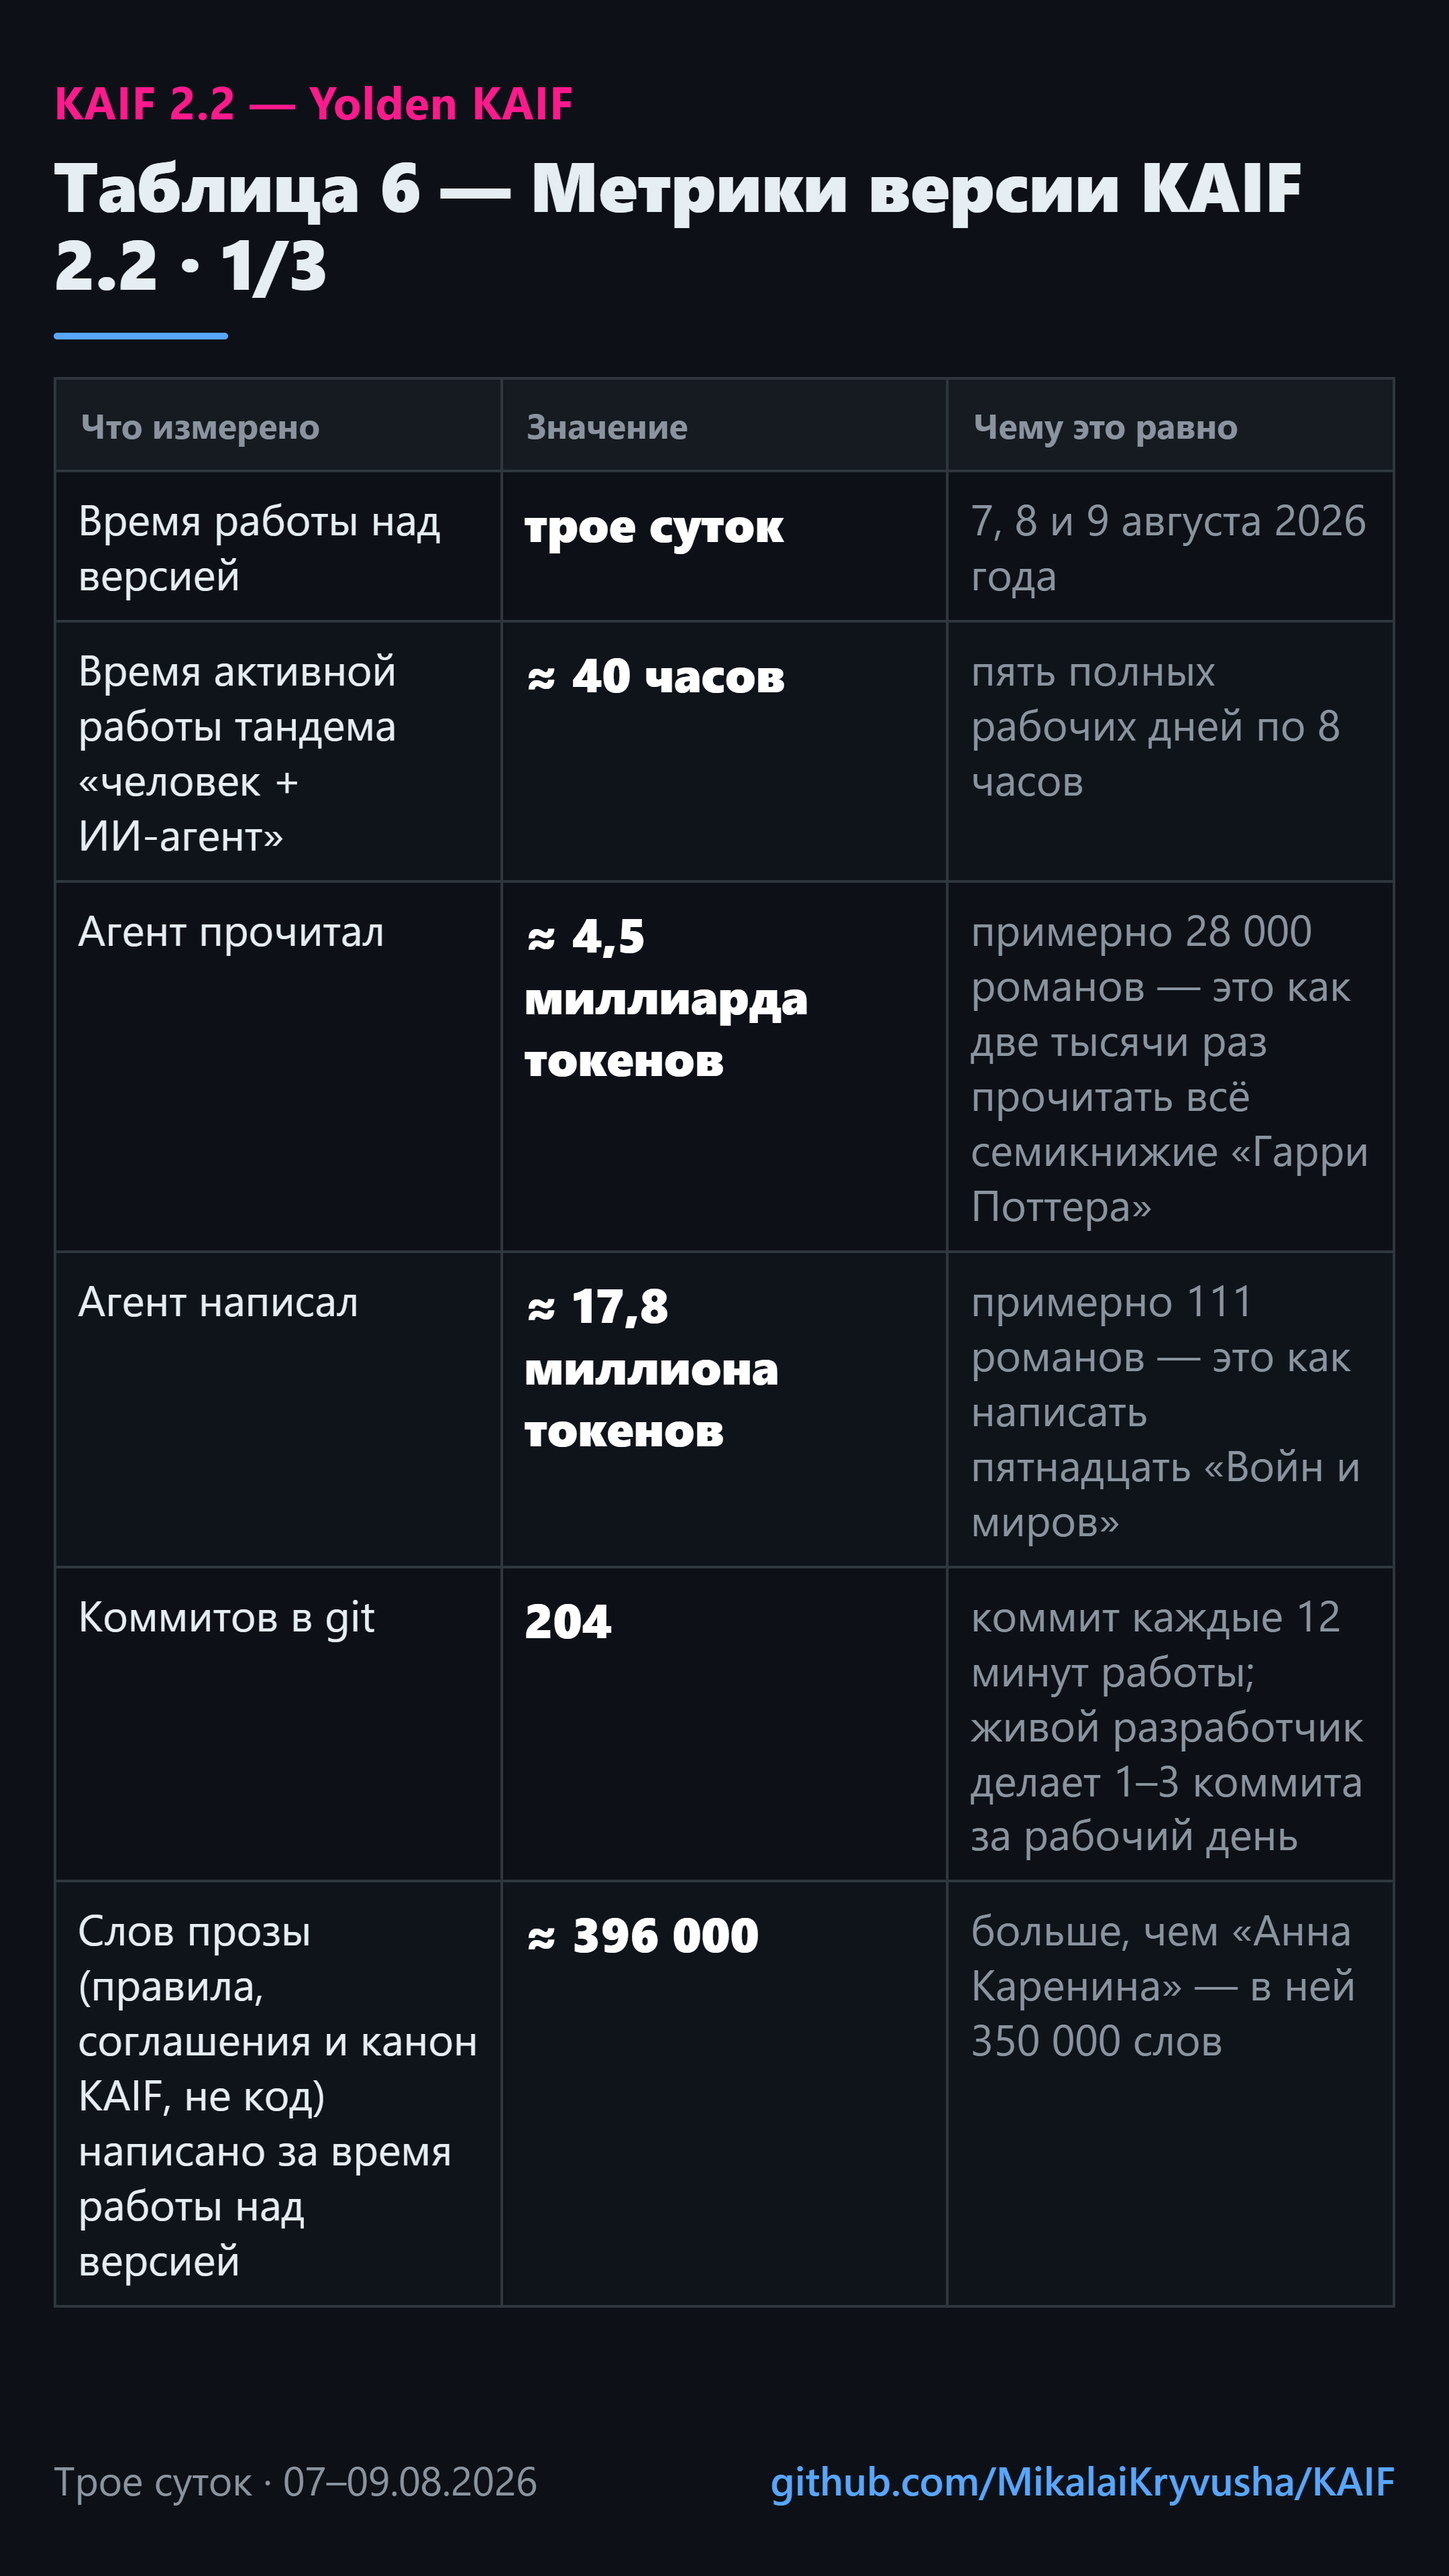
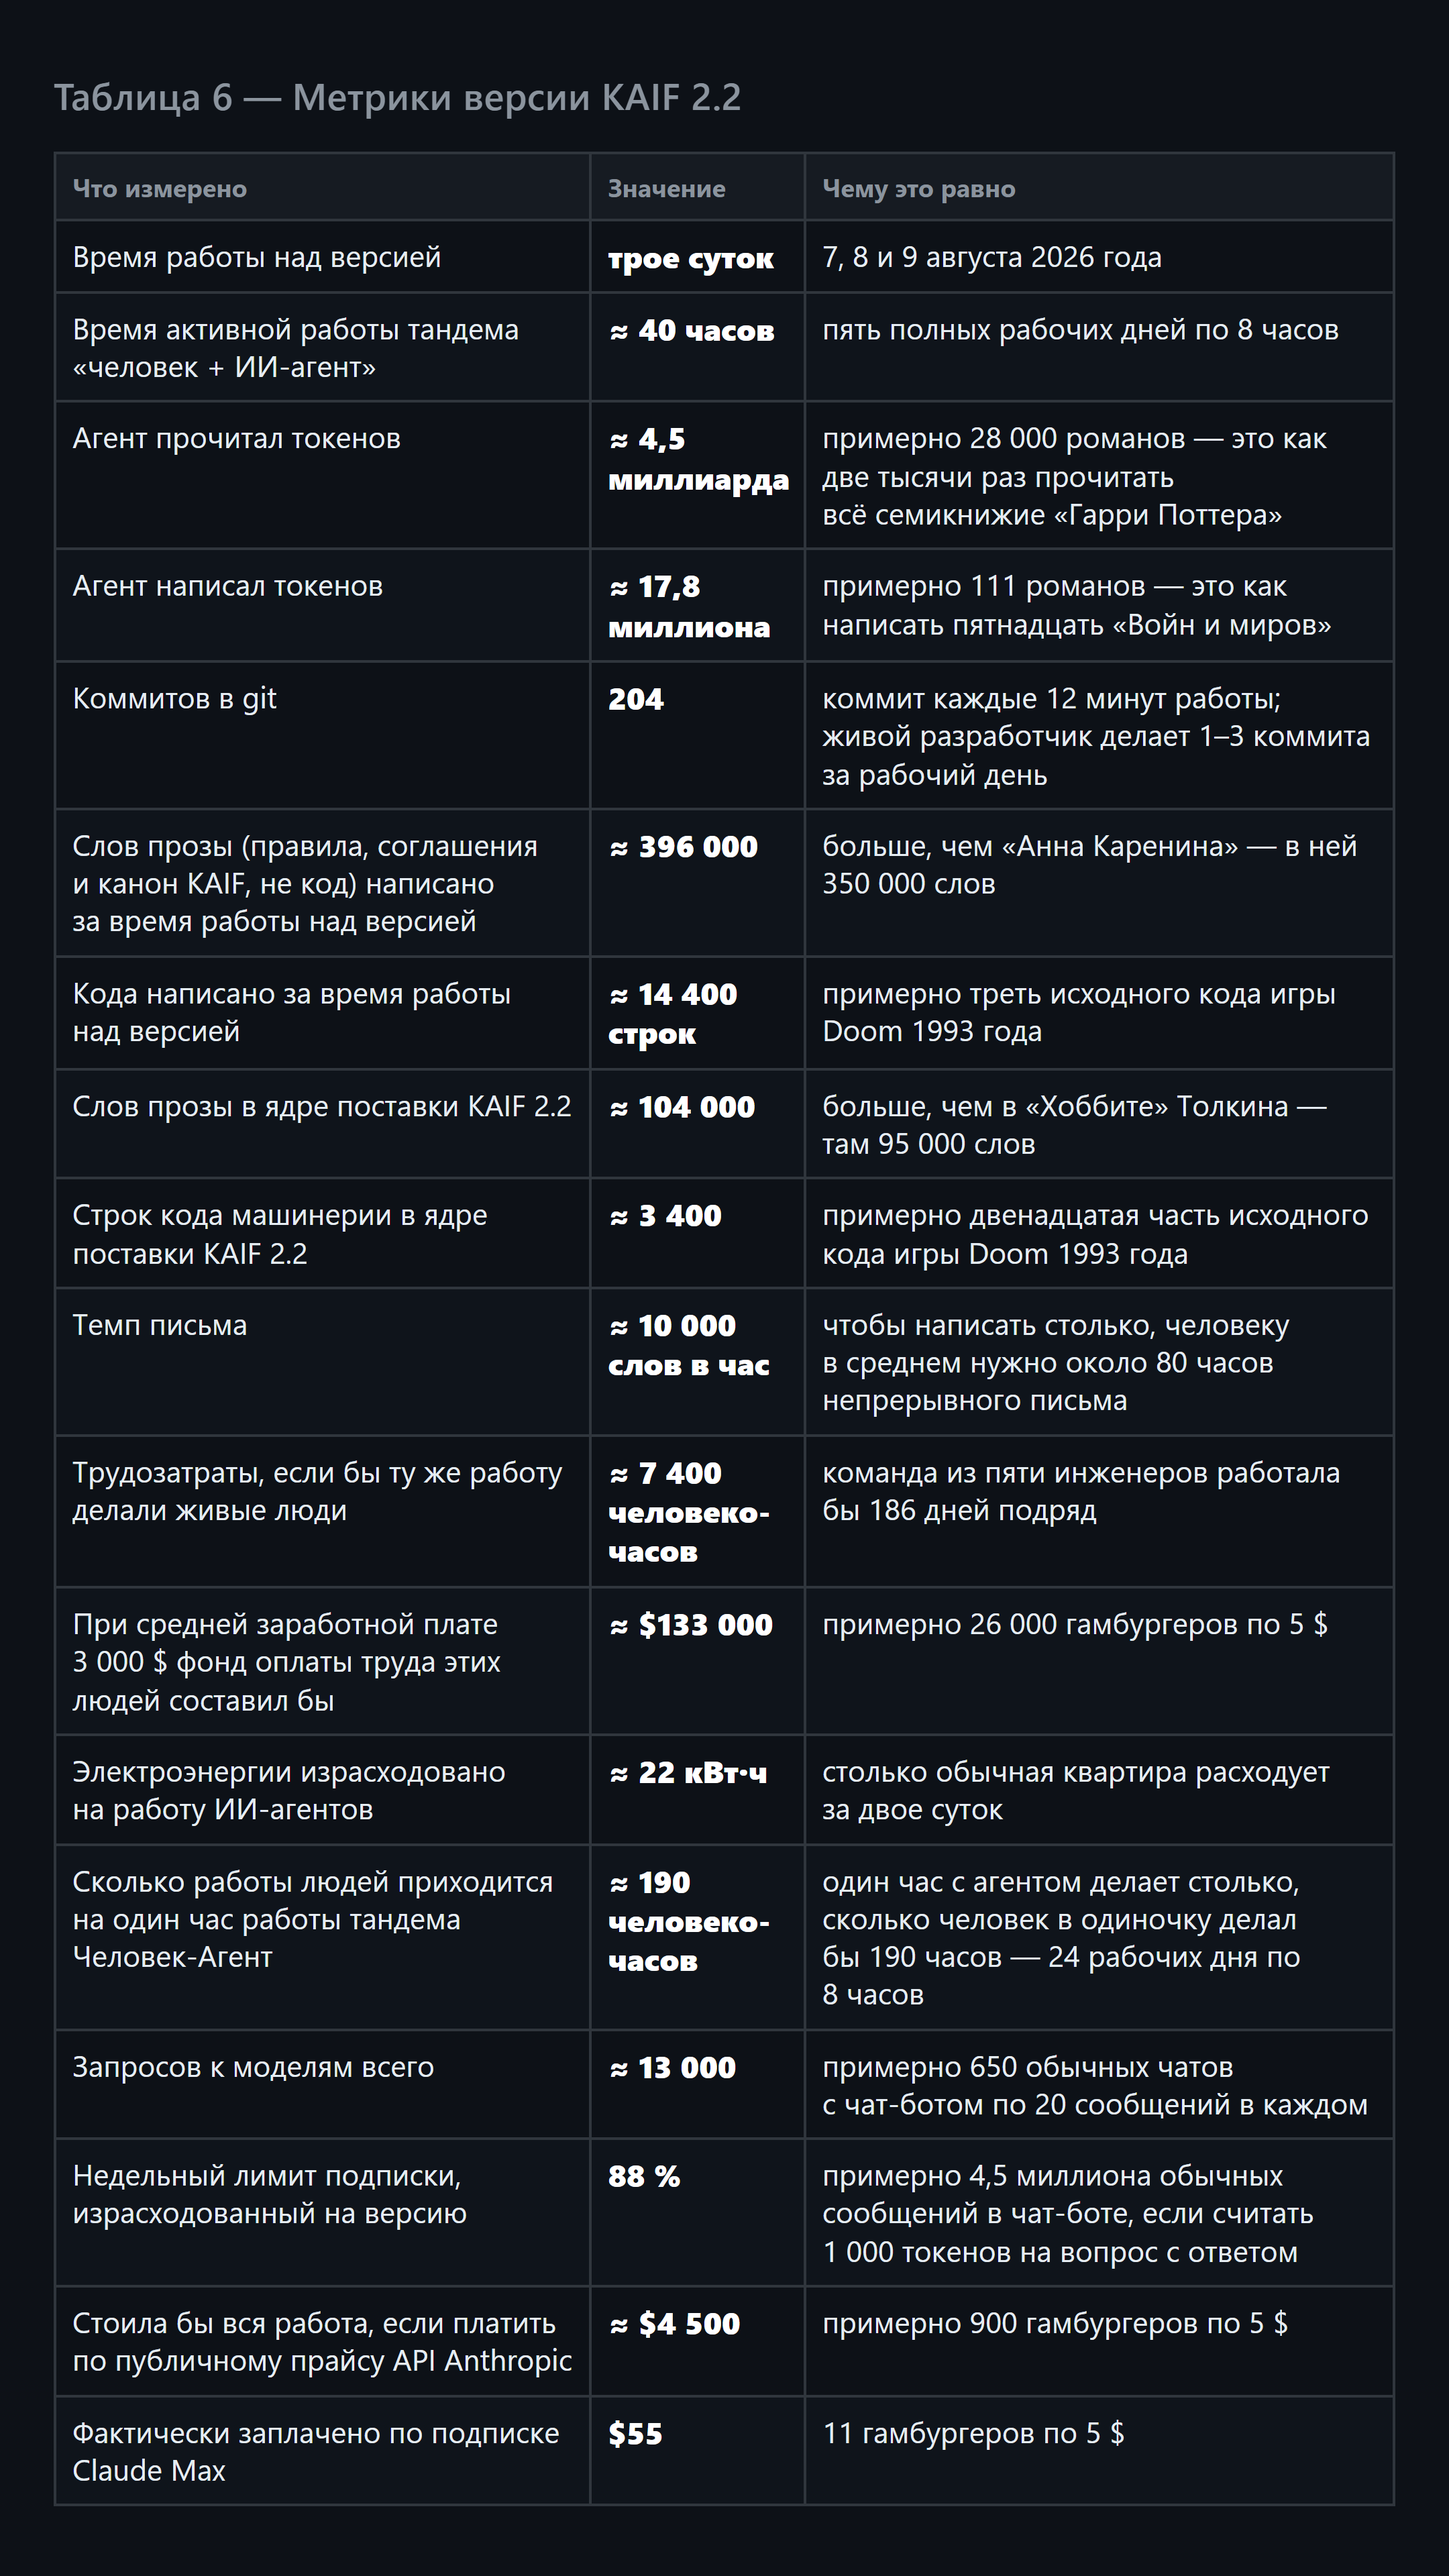
feat(сторис): вся Таблица 6 в ОДНОМ кадре 9:16; замечания 84–86 по строкам таблицы
КАРТОЧКА. По слову владельца («уменьшаем шрифты, стараемся впихнуть в один кадр»)
приоритет снова перевёрнут: сначала ищется самый крупный кегль, при котором ВСЯ
таблица влезает в одну картинку, и только если ячейка стала бы мельче 16 px —
кадр делится. Восемнадцать строк легли в один кадр при 22 px. Заголовок мелкий,
серый, строгий; розовая строка и подпись со ссылкой убраны — всё по его словам.
Третья колонка стала яркой, как первая. Таблица растянута до низа кадра.

ТРИ ДЕФЕКТА РЕНДЕРА, НАЙДЕННЫЕ ПРОБАМИ И ПОЧИНЕННЫЕ ДО ПОКАЗА:
1. При `table-layout:fixed` ширины берутся из ПЕРВОЙ строки — то есть из шапки, у
   которой ширин не было; проценты на ячейках тела не действовали вовсе. Ширины
   объявлены `colgroup`.
2. Константа неразрывного пробела в самом рендере оказалась ОБЫЧНЫМ пробелом
   (код 32): типографика не только не ставила неразрывные, но и стирала те, что
   пришли из README. Теперь символ задаётся кодом — родня EXP-0082.
3. Когда неразрывные заработали, значение склеилось в один длинный токен и
   наезжало на соседнюю колонку. Во второй колонке типографика ослаблена (владелец
   разрешил там переносы явно), в первой и третьей жёсткие правила остались.

ТАБЛИЦА. 84: «Темп письма» — значение сокращено до «≈ 10 000 слов в час».
85: единица вынесена из значения в название строки — «Агент прочитал токенов» и
«Агент написал токенов», в значении остались «≈ 4,5 миллиарда» и «≈ 17,8 миллиона».
[…]

diff --git a/README.md b/README.md
@@ -507,14 +507,14 @@ Table 6 — Metrics of KAIF 2.2
 |-------------------|-------|----------------|
 | Time spent on the version | **three days** | 7, 8 and 9 August 2026 |
 | Active working time of the human + AI-agent pair | **≈ 40 hours** | five full 8-hour working days |
-| The agent read | **≈ 4.5 billion tokens** | about 28,000 novels — like reading the entire Harry Potter series two thousand times |
-| The agent wrote | **≈ 17.8 million tokens** | about 111 novels — like writing fifteen copies of War and Peace |
+| Tokens the agent read | **≈ 4.5 billion** | about 28,000 novels — like reading the entire Harry Potter series two thousand times |
+| Tokens the agent wrote | **≈ 17.8 million** | about 111 novels — like writing fifteen copies of War and Peace |
 | Commits in git | **204** | a commit every 12 minutes of work; a human developer makes 1–3 commits a working day |
 | Words of prose — rules, conventions and the KAIF canon, not code — written during the work on the version | **≈ 396,000** | more than Anna Karenina — 350,000 words |
 | Code written during the work on the version | **≈ 14,400 lines** | about a third of the source code of Doom (1993) |
 | Words of prose in the delivered KAIF 2.2 core | **≈ 104,000** | more than Tolkien's The Hobbit — 95,000 words |
 | Lines of machinery code in the delivered KAIF 2.2 core | **≈ 3,400** | about a twelfth of the source code of Doom (1993) |
-| Writing pace | **≈ 10,000 words** per hour of active work | to write that much a human needs about 80 hours of uninterrupted writing |
+| Writing pace | **≈ 10,000 words** per hour | to write that much a human needs about 80 hours of uninterrupted writing |
 | Man-hours the same work would have taken living people | **≈ 7,400** | a team of five engineers working 186 days straight |
 | At an average salary of $3,000 the payroll for those people would be | **≈ $133,000** | about 26,000 hamburgers at $5 |
 | Electricity spent on the work of the AI agents | **≈ 22 kWh** | an ordinary flat spends that much in two days |
@@ -1038,14 +1038,14 @@ interviews/ homeworks/ reports/       (в каждой свой README)
 |--------------|----------|----------------|
 | Время работы над версией | **трое суток** | 7, 8 и 9 августа 2026 года |
 | Время активной работы тандема «человек + ИИ-агент» | **≈ 40 часов** | пять полных рабочих дней по 8 часов |
-| Агент прочитал | **≈ 4,5 миллиарда токенов** | примерно 28 000 романов — это как две тысячи раз прочитать всё семикнижие «Гарри Поттера» |
-| Агент написал | **≈ 17,8 миллиона токенов** | примерно 111 романов — это как написать пятнадцать «Войн и миров» |
+| Агент прочитал токенов | **≈ 4,5 миллиарда** | примерно 28 000 романов — это как две тысячи раз прочитать всё семикнижие «Гарри Поттера» |
+| Агент написал токенов | **≈ 17,8 миллиона** | примерно 111 романов — это как написать пятнадцать «Войн и миров» |
 | Коммитов в git | **204** | коммит каждые 12 минут работы; живой разработчик делает 1–3 коммита за рабочий день |
 | Слов прозы (правила, соглашения и канон KAIF, не код) написано за время работы над версией | **≈ 396 000** | больше, чем «Анна Каренина» — в ней 350 000 слов |
 | Кода написано за время работы над версией | **≈ 14 400 строк** | примерно треть исходного кода игры Doom 1993 года |
 | Слов прозы в ядре поставки KAIF 2.2 | **≈ 104 000** | больше, чем в «Хоббите» Толкина — там 95 000 слов |
 | Строк кода машинерии в ядре поставки KAIF 2.2 | **≈ 3 400** | примерно двенадцатая часть исходного кода игры Doom 1993 года |
-| Темп письма | **≈ 10 000 слов** за час активной работы | чтобы написать столько, человеку в среднем нужно около 80 часов непрерывного письма |
+| Темп письма | **≈ 10 000 слов** в час | чтобы написать столько, человеку в среднем нужно около 80 часов непрерывного письма |
 | Трудозатраты, если бы ту же работу делали живые люди | **≈ 7 400 человеко-часов** | команда из пяти инженеров работала бы 186 дней подряд |
 | При средней заработной плате 3 000 $ фонд оплаты труда этих людей составил бы | **≈ $133 000** | примерно 26 000 гамбургеров по 5 $ |
 | Электроэнергии израсходовано на работу ИИ-агентов | **≈ 22 кВт·ч** | столько обычная квартира расходует за двое суток |
